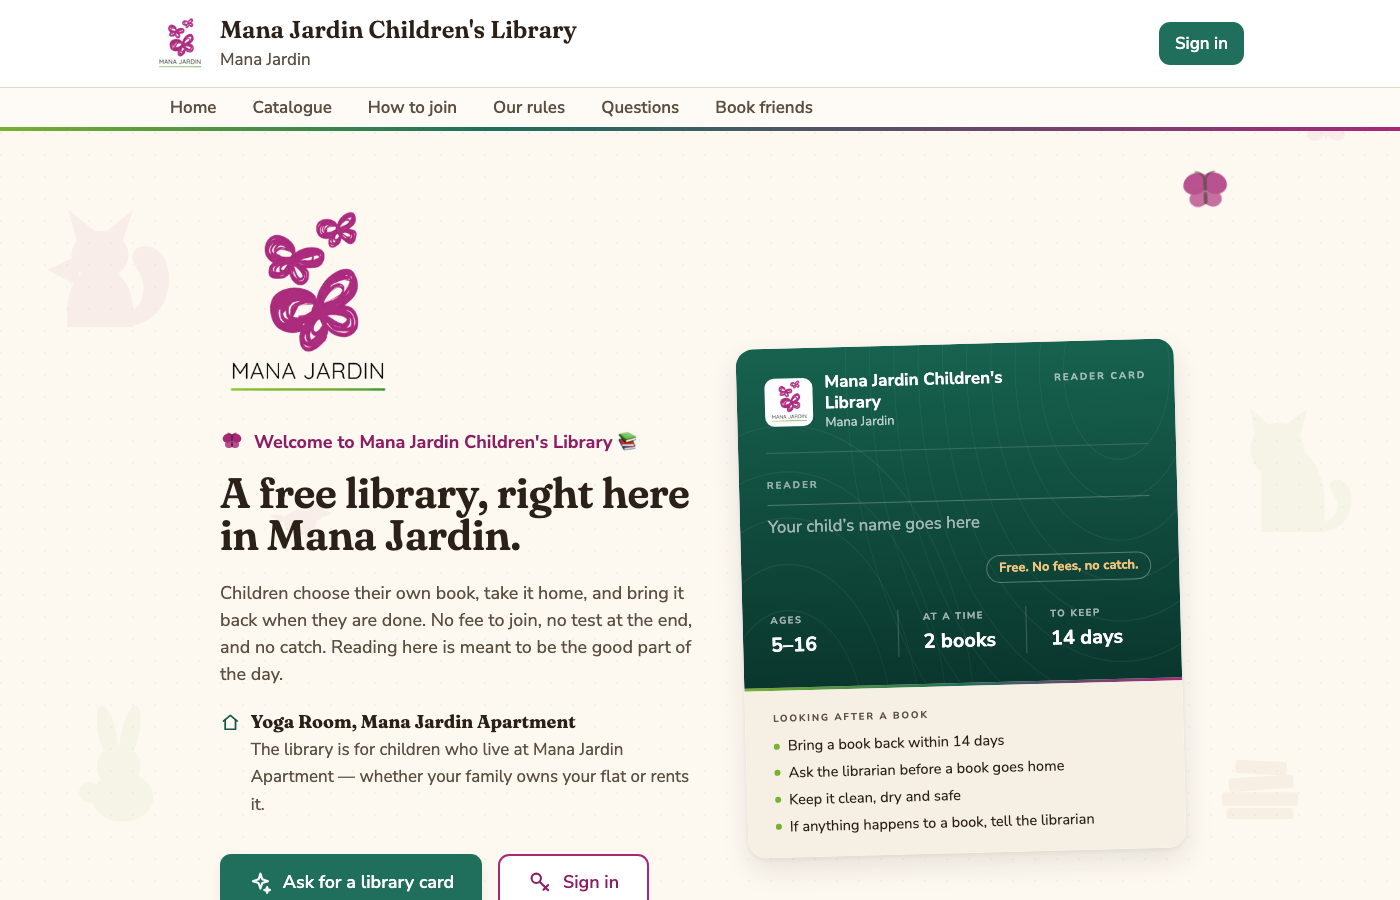
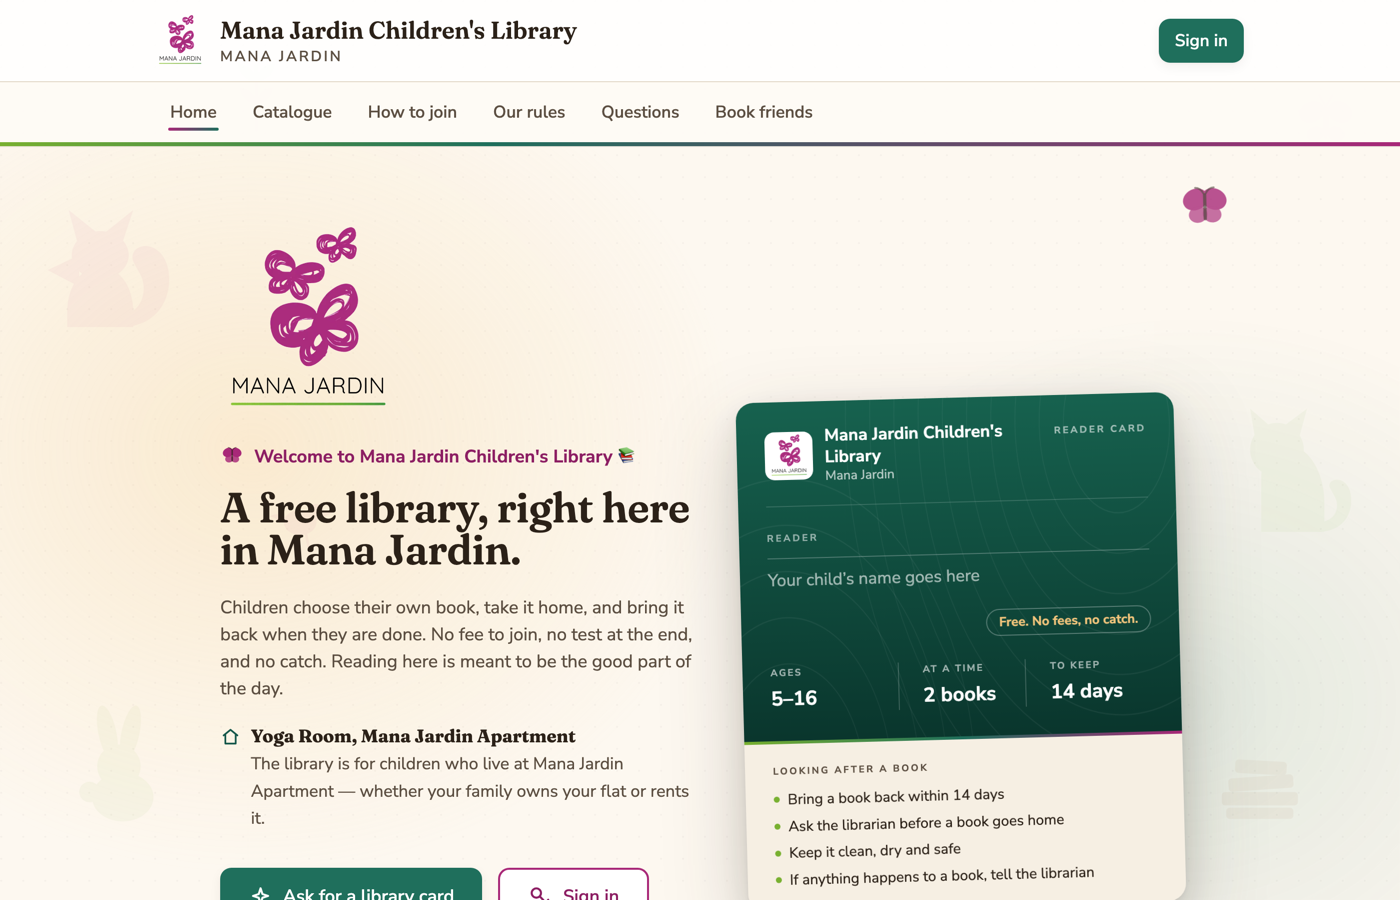
Show the library as it looks now
The screenshot in the README was taken on 2 September, before the pass
that gave every page a lit band, a masthead that stays, a 44px floor
under every door and a sign-in that is a room. The home page itself is
the one screen that pass did not change, so the picture is nearly the
same picture — but it is now taken from the site that is actually
running, and the current-page mark under "Home" is in it.

Counts brought up to date with the same edit: 71 architecture decisions
rather than 68, 19 migrations rather than 18, and 1,893 tests rather
than 1,652 (1,136 unit and 757 against a real database).

`docs/demo.gif` is still the older catalogue and is now out of date —
that page gained the lit band too. Left for its own change, because a
recording is not a screenshot.

diff --git a/README.md b/README.md
@@ -25,7 +25,7 @@ changes, reports and exports for the desk, an AI book helper that answers only
 about books the library owns, and retention machinery that erases fields rather
 than rows. See [`docs/ARCHITECTURE_DECISIONS.md`](docs/ARCHITECTURE_DECISIONS.md).
 
-68 architecture decisions · 18 migrations · 35 models · 46 pages · 1,652 tests.
+71 architecture decisions · 19 migrations · 35 models · 46 pages · 1,893 tests.
 
 ---
 
